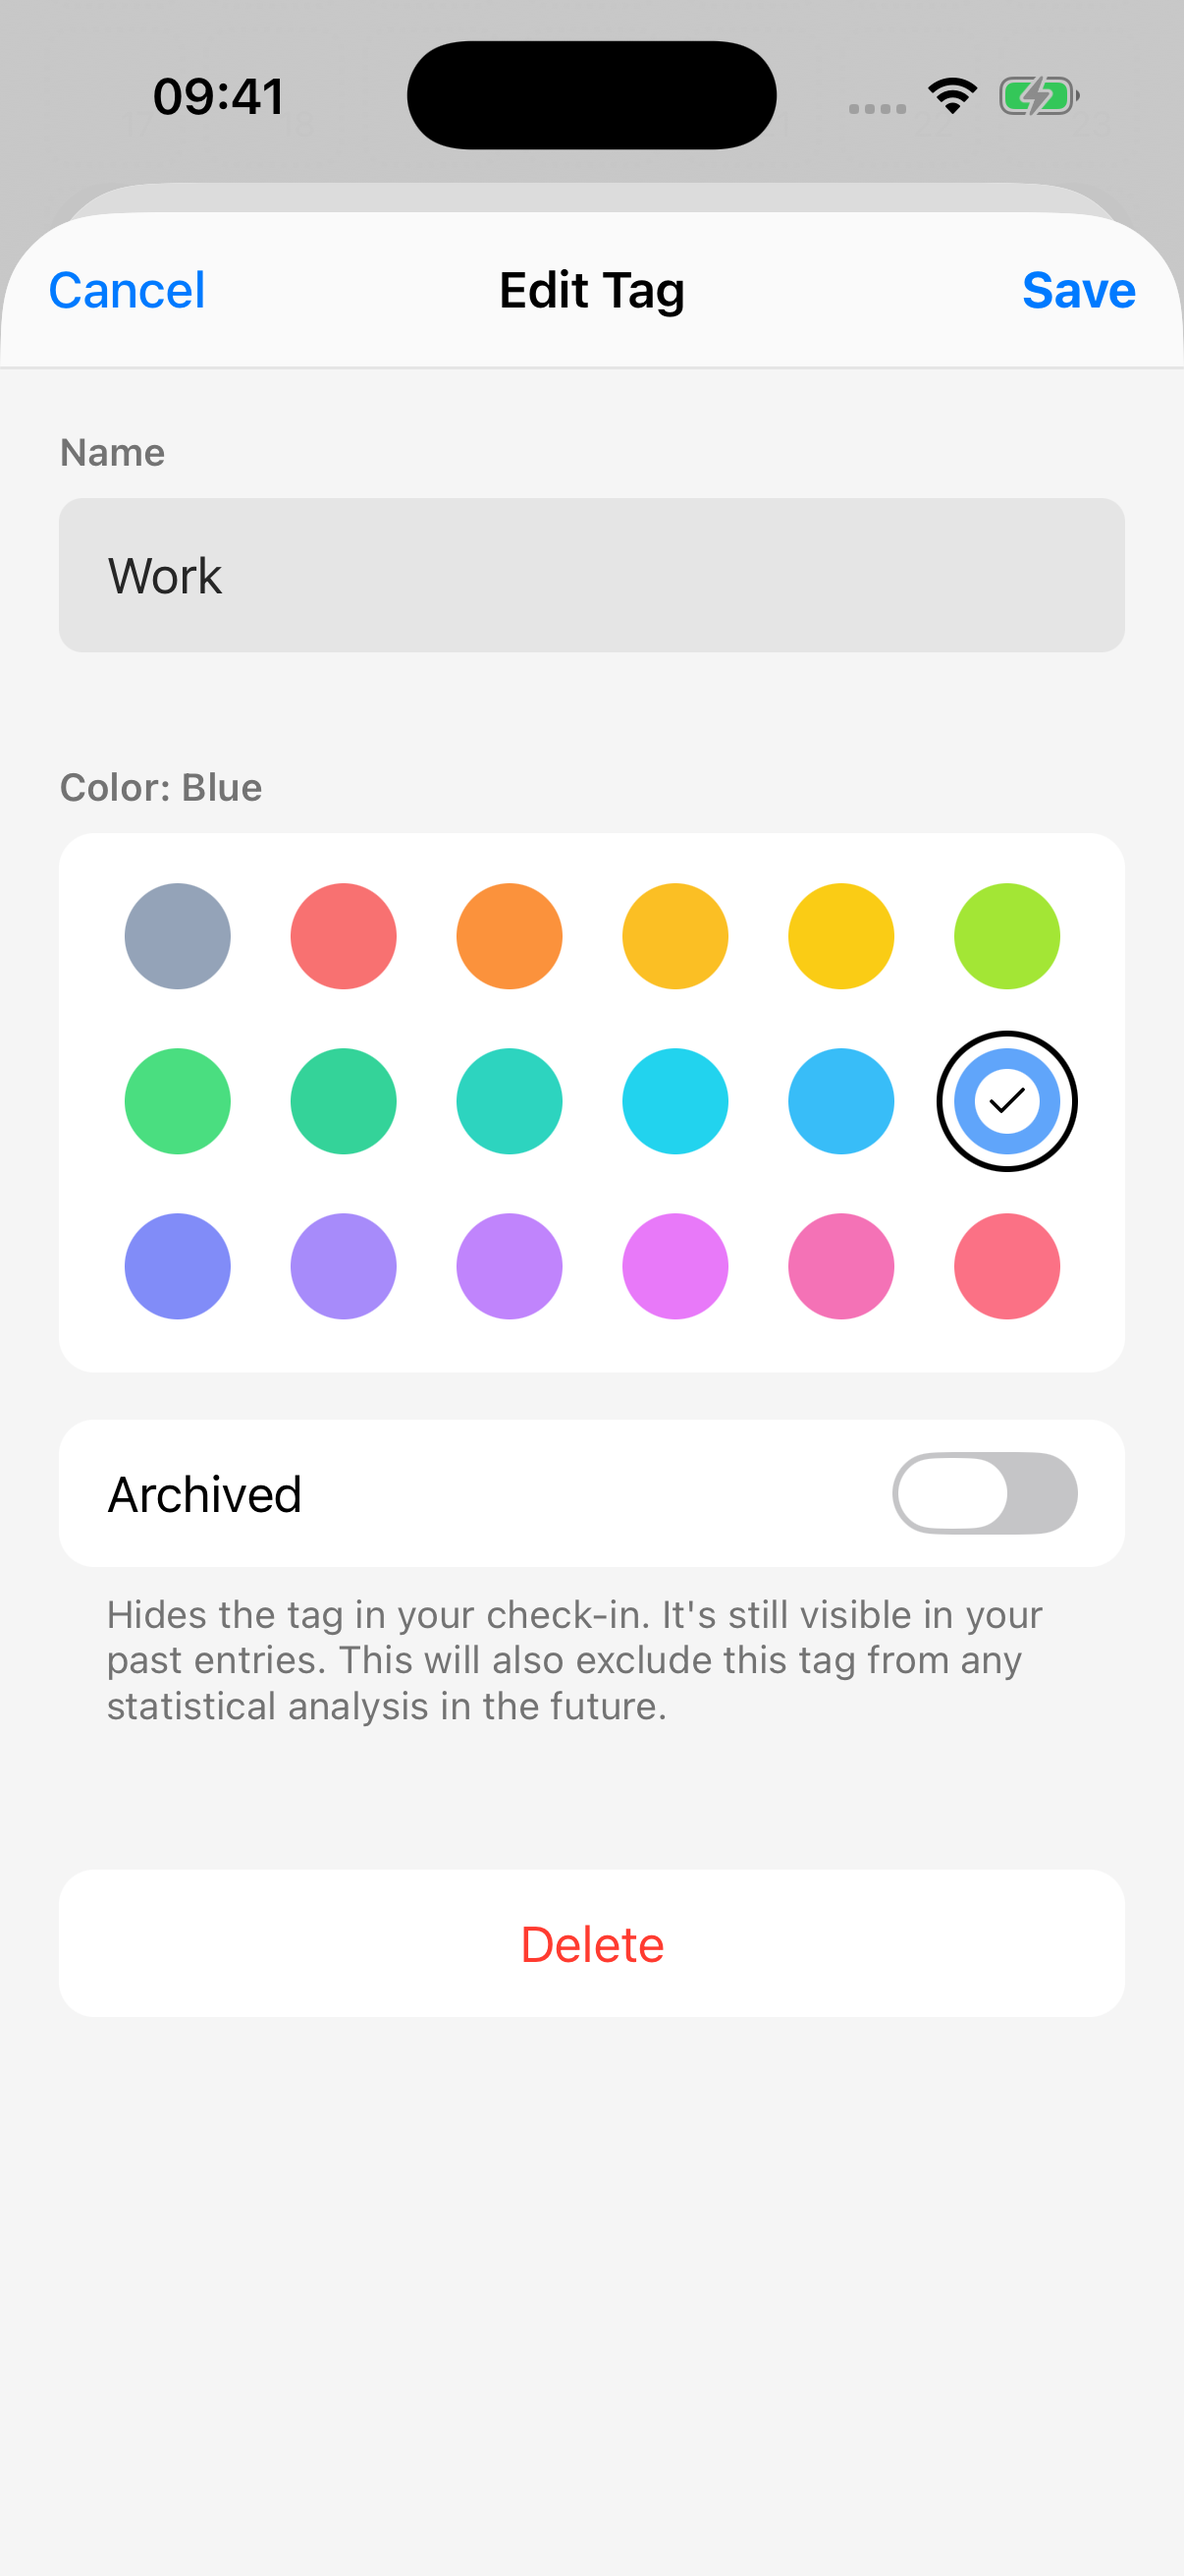
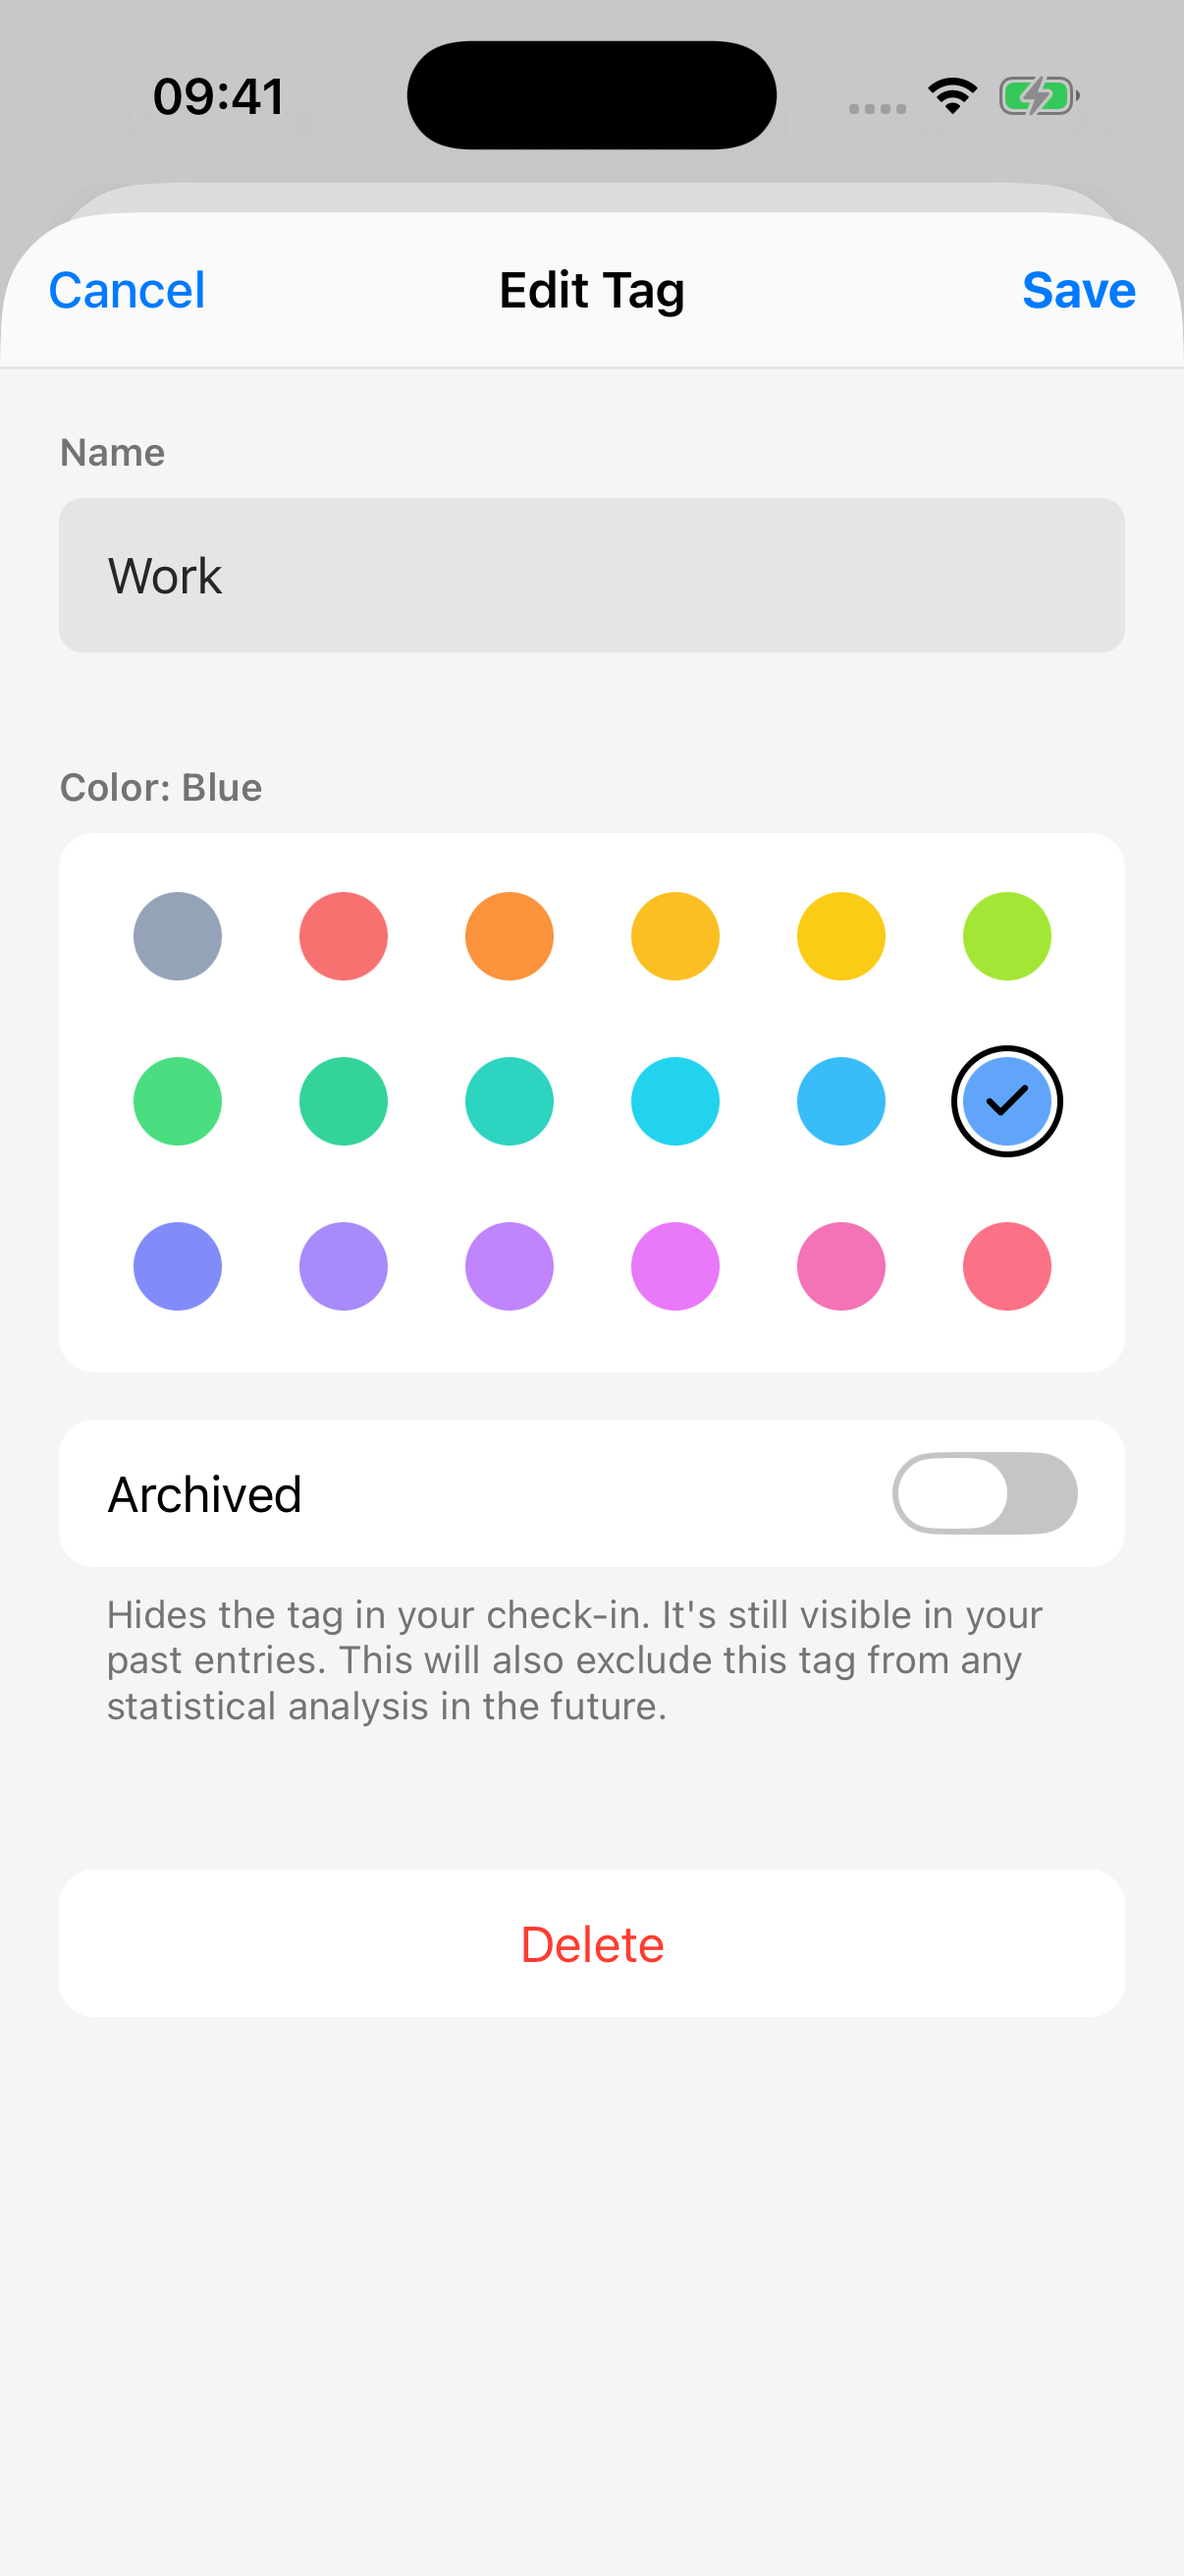
fix(tags): mark selected color with one ring and a check

diff --git a/src/features/tags/components/ColorPicker.tsx b/src/features/tags/components/ColorPicker.tsx
@@ -8,12 +8,16 @@ import useHaptics from "@/hooks/useHaptics";
 import { t, tDynamic } from "@/lib/translation";
 
 const TARGET_SIZE = 48;
+const DOT_SIZE = 30;
+const RING_GAP = 2;
+const RING_WIDTH = 2;
+const RING_SIZE = DOT_SIZE + 2 * (RING_GAP + RING_WIDTH);
 const GAP = 8;
 
 const styles = StyleSheet.create({
-  // Android lists run edge to edge, so swatches keep Material's 16dp inset.
   // Matches the Name label in TagNameField.
   label: { fontSize: 13, fontWeight: "600", paddingBottom: 8 },
+  // Android lists run edge to edge, so swatches keep Material's 16dp inset.
   card: Platform.select({
     android: { paddingHorizontal: 16, paddingVertical: 12 },
     default: { padding: 12 },
@@ -23,23 +27,23 @@ const styles = StyleSheet.create({
   target: {
     width: TARGET_SIZE,
     height: TARGET_SIZE,
-    borderWidth: 2,
     borderRadius: TARGET_SIZE / 2,
     alignItems: "center",
     justifyContent: "center",
     overflow: "hidden",
   },
-  swatch: {
-    width: 36,
-    height: 36,
-    borderRadius: 18,
+  ring: {
+    width: RING_SIZE,
+    height: RING_SIZE,
+    borderWidth: RING_WIDTH,
+    borderRadius: RING_SIZE / 2,
     alignItems: "center",
     justifyContent: "center",
   },
-  check: {
-    width: 22,
-    height: 22,
-    borderRadius: 11,
+  dot: {
+    width: DOT_SIZE,
+    height: DOT_SIZE,
+    borderRadius: DOT_SIZE / 2,
     alignItems: "center",
     justifyContent: "center",
   },
@@ -48,6 +52,7 @@ const styles = StyleSheet.create({
 /**
  * Fixed tag palette in a grouped card, like iOS Reminders list colors.
  * Columns spread across the card width. Targets stay 48 points and never shrink.
+ * Selected color: one ring in text color plus a check on the dot.
  */
 export const ColorPicker = ({
   value,
@@ -99,13 +104,7 @@ export const ColorPicker = ({
                   }}
                   style={({ pressed }) => [
                     styles.target,
-                    {
-                      borderColor:
-                        isSelected || focusedColor === color
-                          ? colors.text
-                          : "transparent",
-                      opacity: pressed ? 0.7 : 1,
-                    },
+                    { opacity: pressed ? 0.7 : 1 },
                   ]}
                   onPress={() => {
                     if (isSelected) {
@@ -120,24 +119,30 @@ export const ColorPicker = ({
                     accessibilityElementsHidden
                     importantForAccessibility="no-hide-descendants"
                     style={[
-                      styles.swatch,
-                      { backgroundColor: colors.tags[color].dot },
+                      styles.ring,
+                      {
+                        borderColor:
+                          isSelected || focusedColor === color
+                            ? colors.text
+                            : "transparent",
+                      },
                     ]}
                   >
-                    {isSelected && (
-                      <View
-                        style={[
-                          styles.check,
-                          { backgroundColor: colors.palette.white },
-                        ]}
-                      >
+                    <View
+                      style={[
+                        styles.dot,
+                        { backgroundColor: colors.tags[color].dot },
+                      ]}
+                    >
+                      {isSelected && (
                         <Check
-                          width={16}
-                          height={16}
+                          width={18}
+                          height={18}
+                          strokeWidth={3}
                           color={colors.palette.black}
                         />
-                      </View>
-                    )}
+                      )}
+                    </View>
                   </View>
                 </Pressable>
               </View>

diff --git a/docs/design.md b/docs/design.md
@@ -9,8 +9,8 @@
 - Apple: [color wells](https://developer.apple.com/design/human-interface-guidelines/color-wells) support color selection. [UI design tips](https://developer.apple.com/design/tips/) require targets at least 44 × 44 points.
 - Android: [Material radio buttons](https://m3.material.io/components/radio-button/overview) represent one choice. [Accessibility defaults](https://developer.android.com/develop/ui/compose/accessibility/api-defaults) require targets at least 48 × 48 dp. Avoid overlapping targets.
 - Layout follows native fixed-palette pickers (iOS Reminders list color, Google Keep note color): label outside (same style as Name label), swatches inside grouped card like settings rows.
-- Grid columns spread across card width. 48 × 48 targets, 36-point swatches. Targets never shrink; narrow screens get fewer columns.
-- Selected color uses ring, black checkmark on white badge, visible color name. Selection never depends on hue alone.
+- Grid columns spread across card width. 48 × 48 targets, 30-point dots. Targets never shrink; narrow screens get fewer columns.
+- Selected color: one ring in text color (black in light, white in dark), black check on dot, color name in label. Selection never depends on hue alone.
 - Screen readers receive localized color names, radio roles, checked state. Keyboard focus gets visible ring.
 - Color names use English fallback when locale lacks translation. Palette values stay unchanged in storage.
 - Create and Edit share [`ColorPicker`](../src/features/tags/components/ColorPicker.tsx). Forms scroll when keyboard or larger text reduces space.
